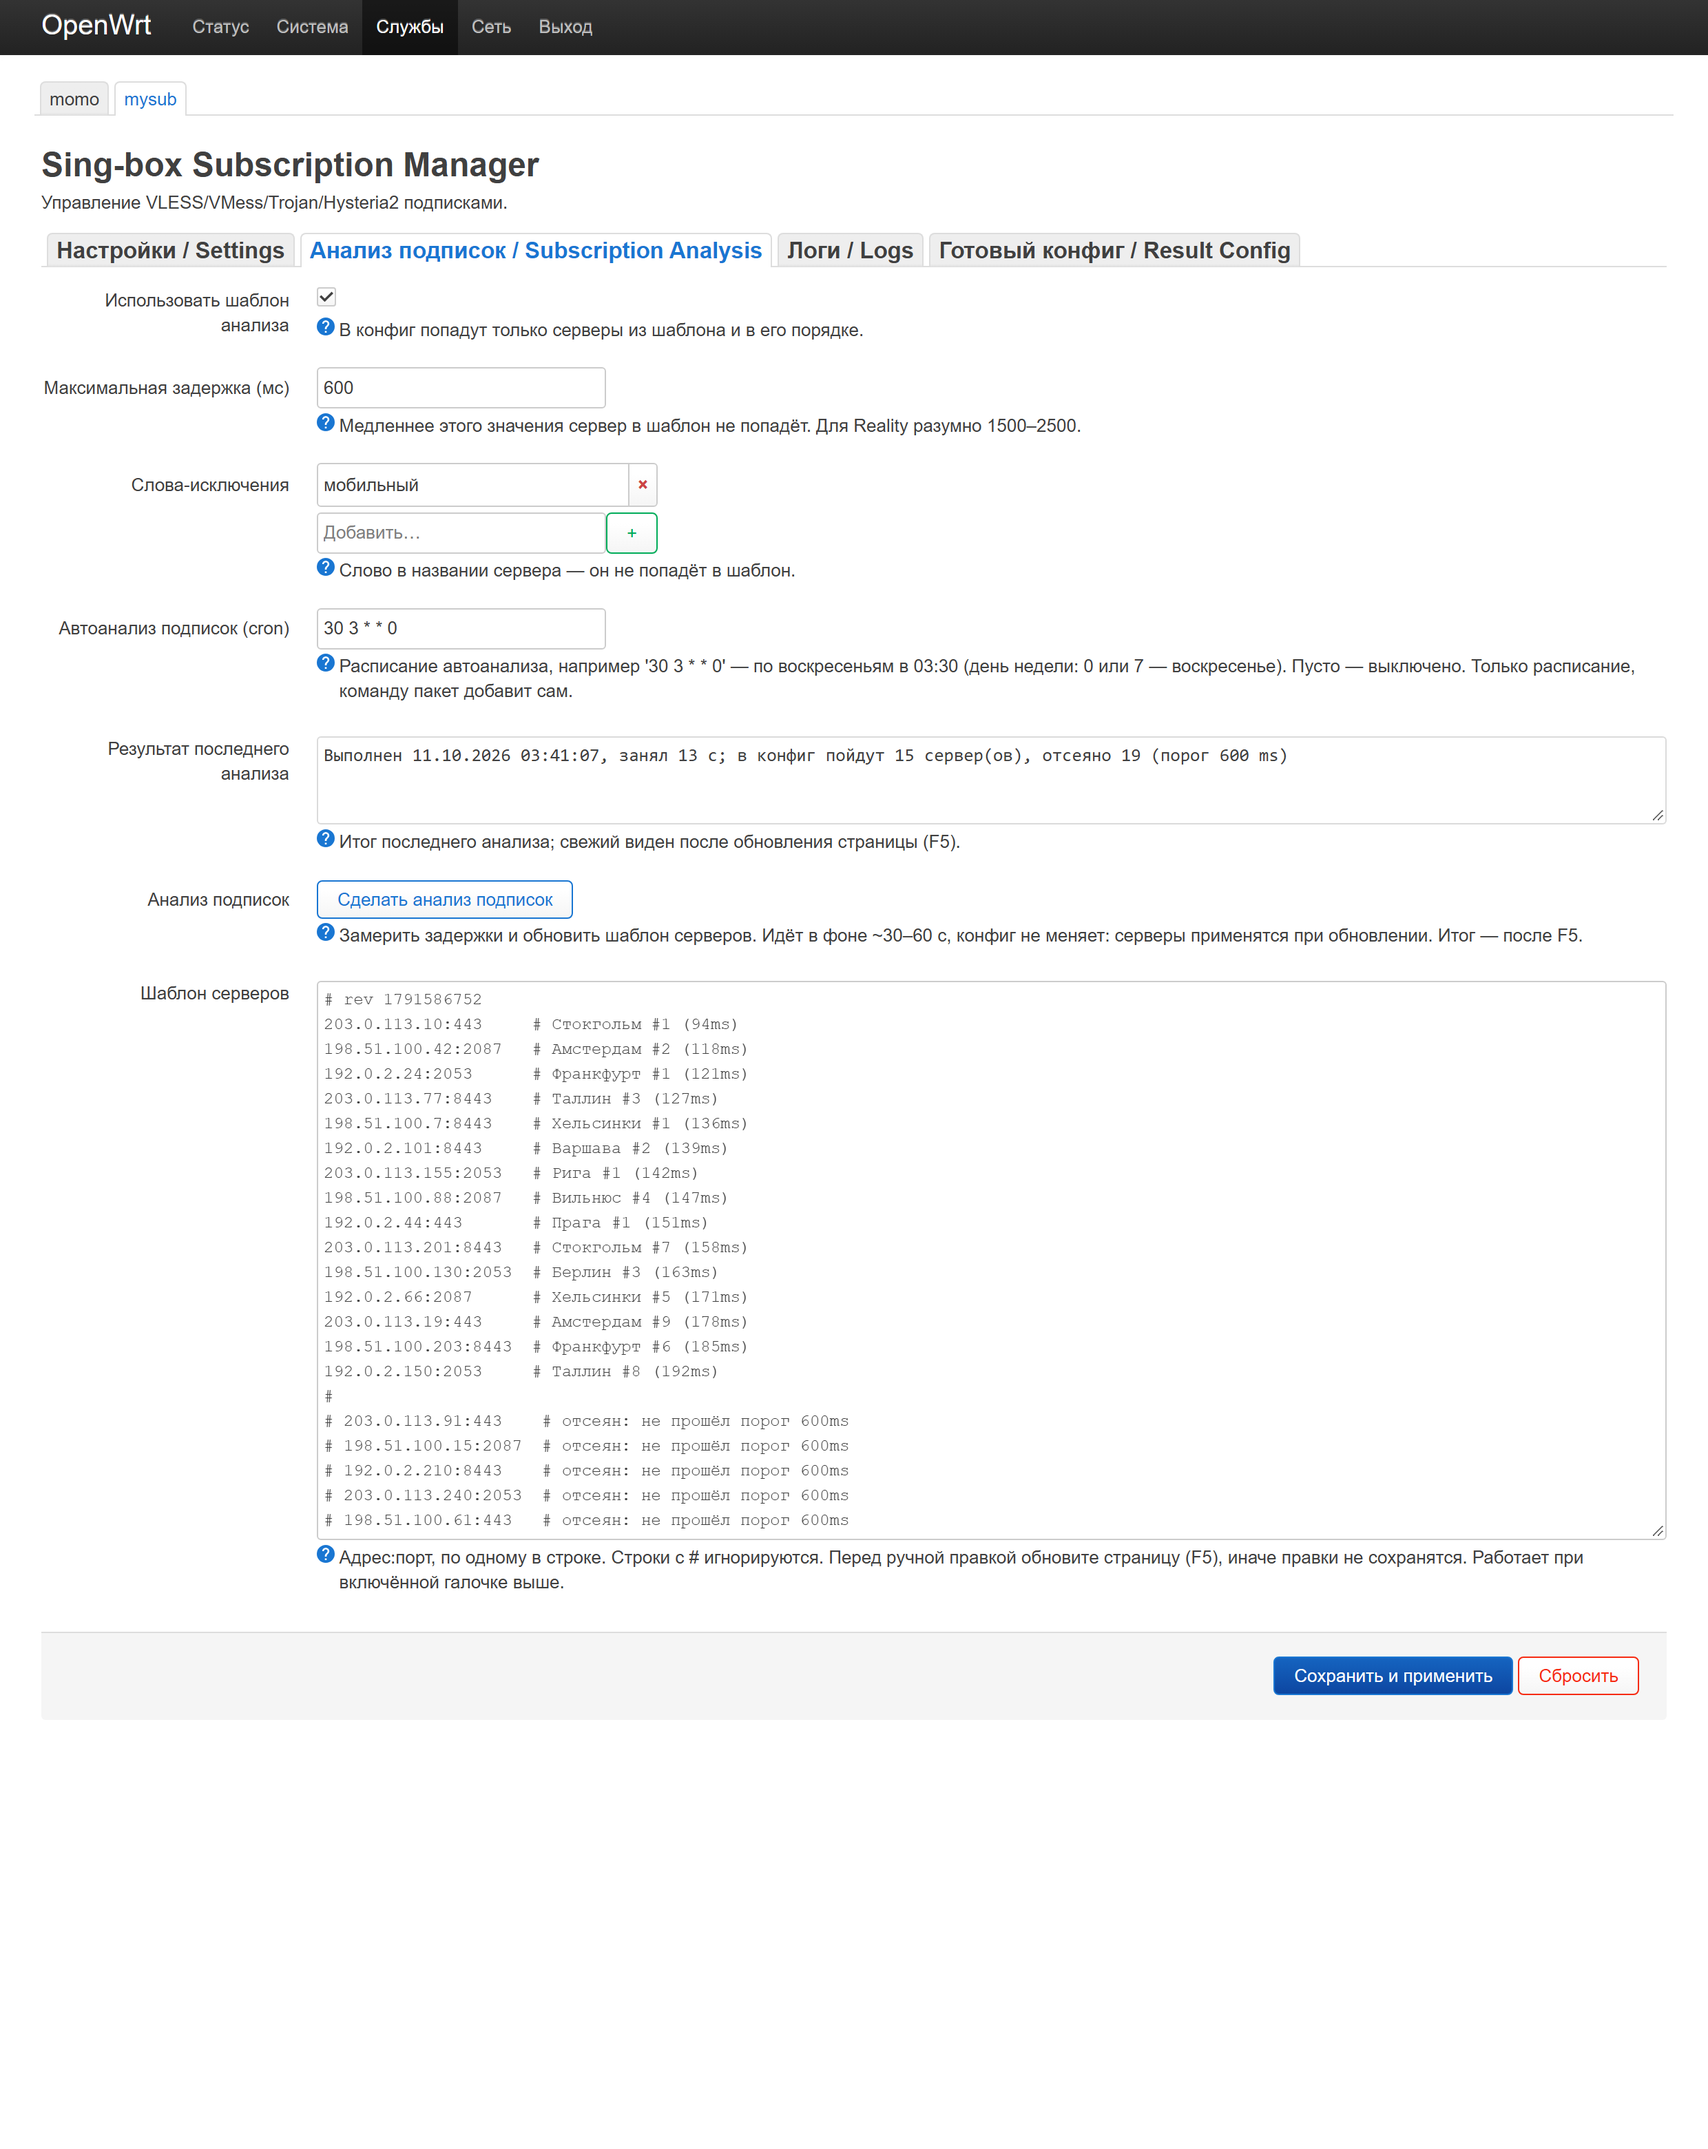
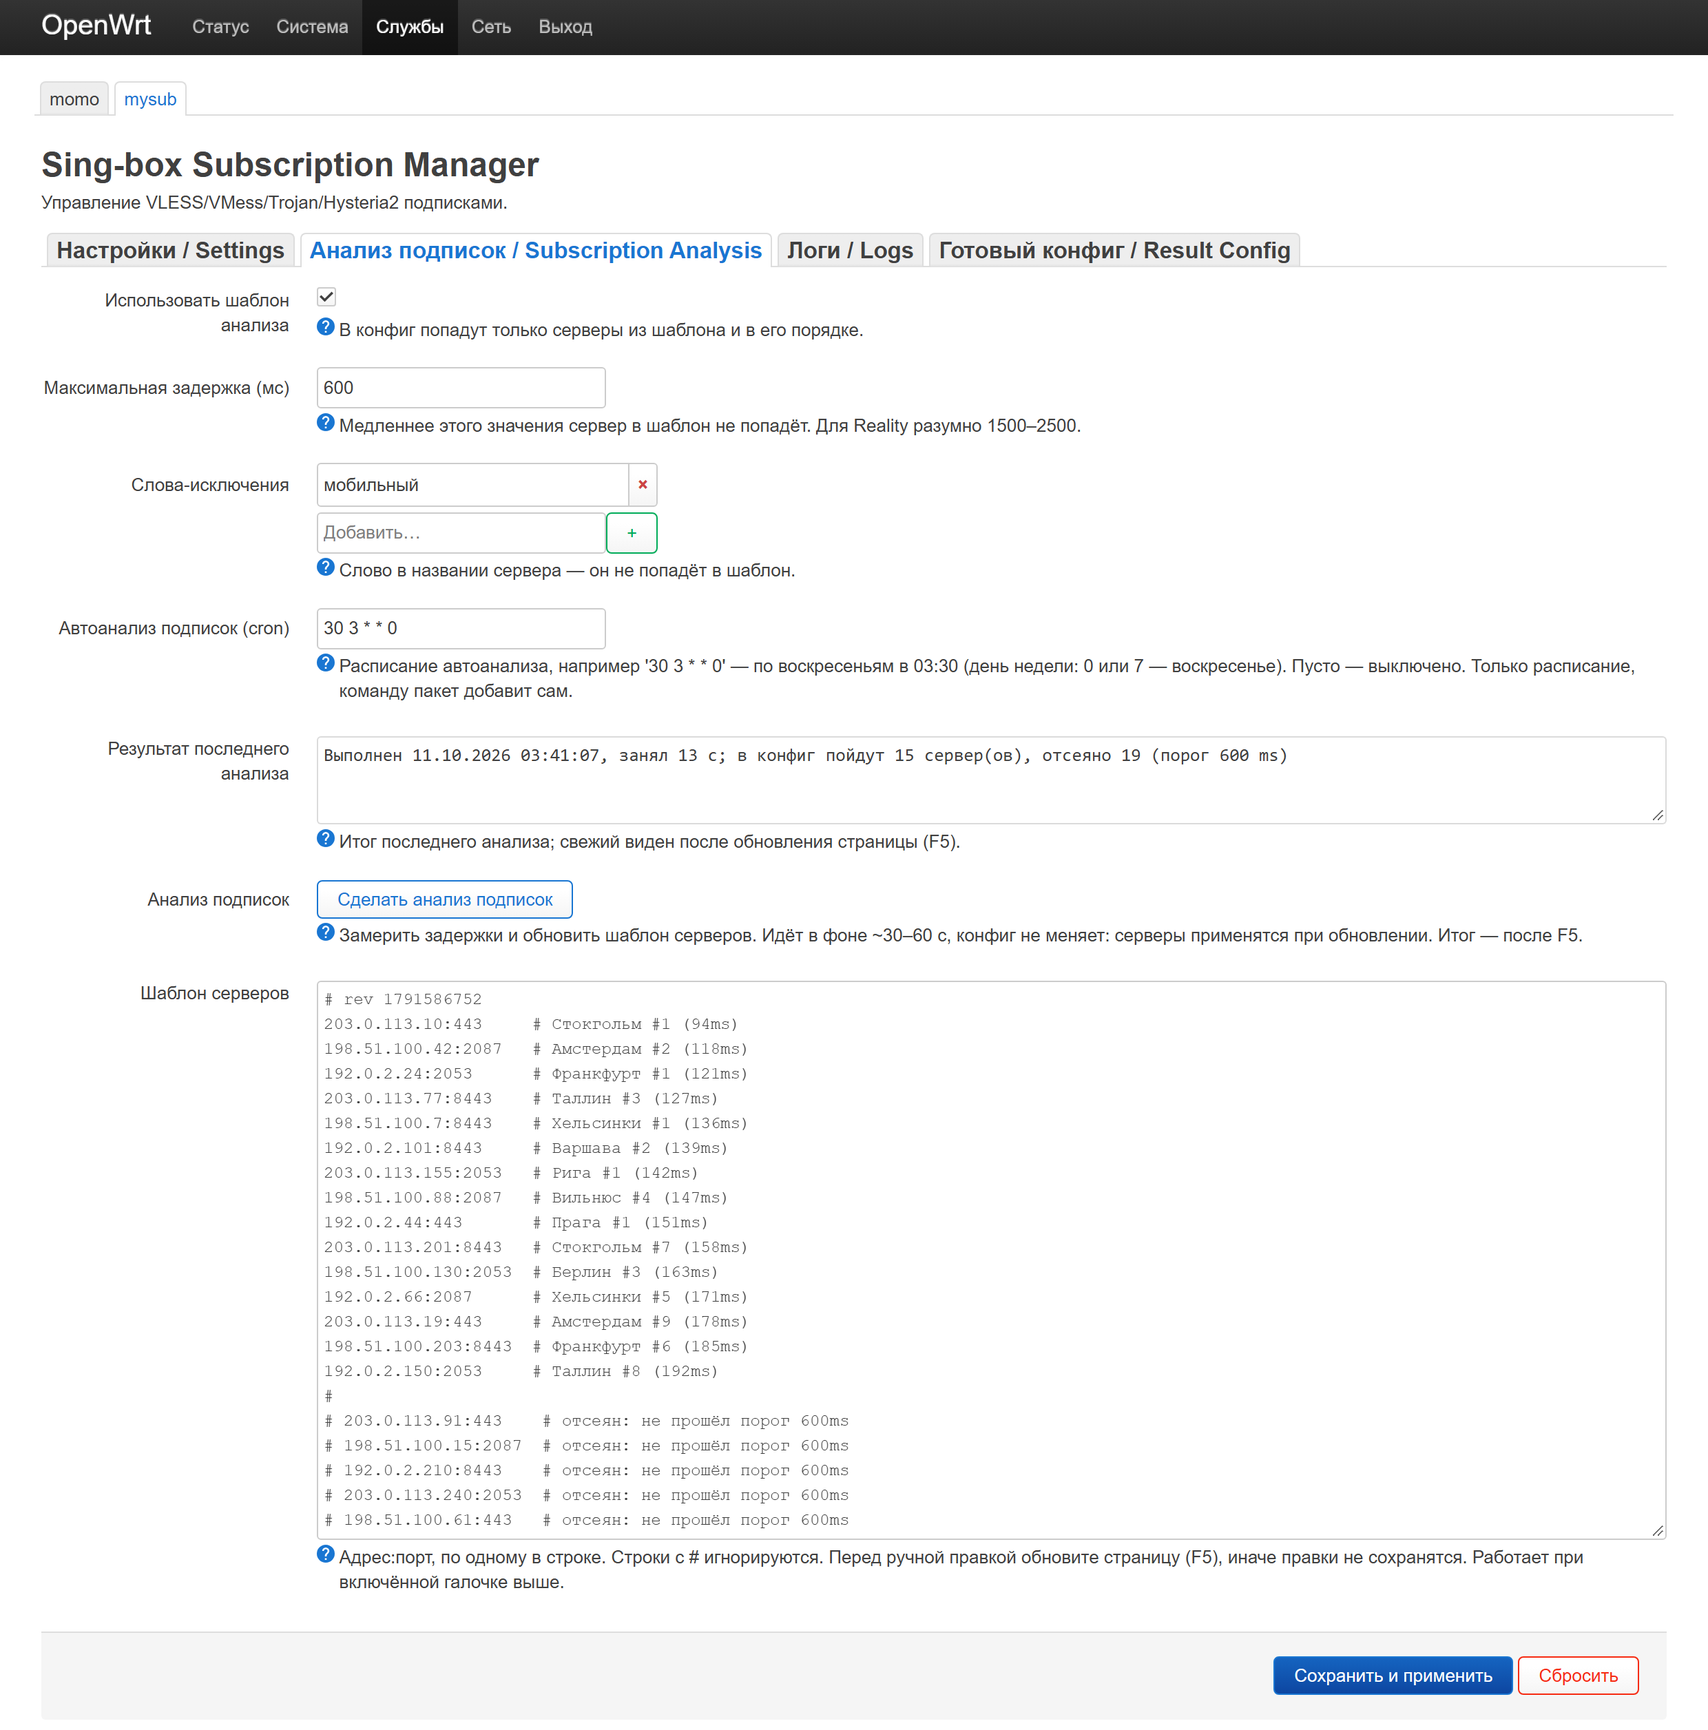
docs: добавлен скриншот вкладки «Настройки», обрезаны пустые поля
Две иллюстрации: настройки (подписки, пути, cron, уровень логов) и анализ
подписок. Высота подогнана под контент, пустой хвост убран.

diff --git a/README.md b/README.md
@@ -4,9 +4,13 @@
 
 Плагин автоматизирует процесс получения конфигураций от провайдеров, их декодирование и интеграцию в рабочую среду роутера с использованием метода маркеров (`{all_subs}`).
 
+![Интерфейс: вкладка «Настройки»](docs/screenshot-settings.png)
+
+*Вкладка «Настройки»: подписки, базовый конфиг, файл результата, расписание обновления и уровень логов. Ссылки и пути на скриншоте — примерные.*
+
 ![Интерфейс: вкладка «Анализ подписок»](docs/screenshot-analysis.png)
 
-*Вкладка «Анализ подписок»: порог задержки, автоанализ по cron, замер и шаблон серверов. Данные на скриншоте обезличены — подписки, адреса серверов и задержки приведены для примера.*
+*Вкладка «Анализ подписок»: порог задержки, автоанализ по cron, замер и шаблон серверов. Адреса серверов взяты из документационных диапазонов RFC 5737, данные примерные.*
 
 ## Требования
 Для работы плагина требуются следующие зависимости (устанавливаются автоматически при штатной инсталляции пакета):
